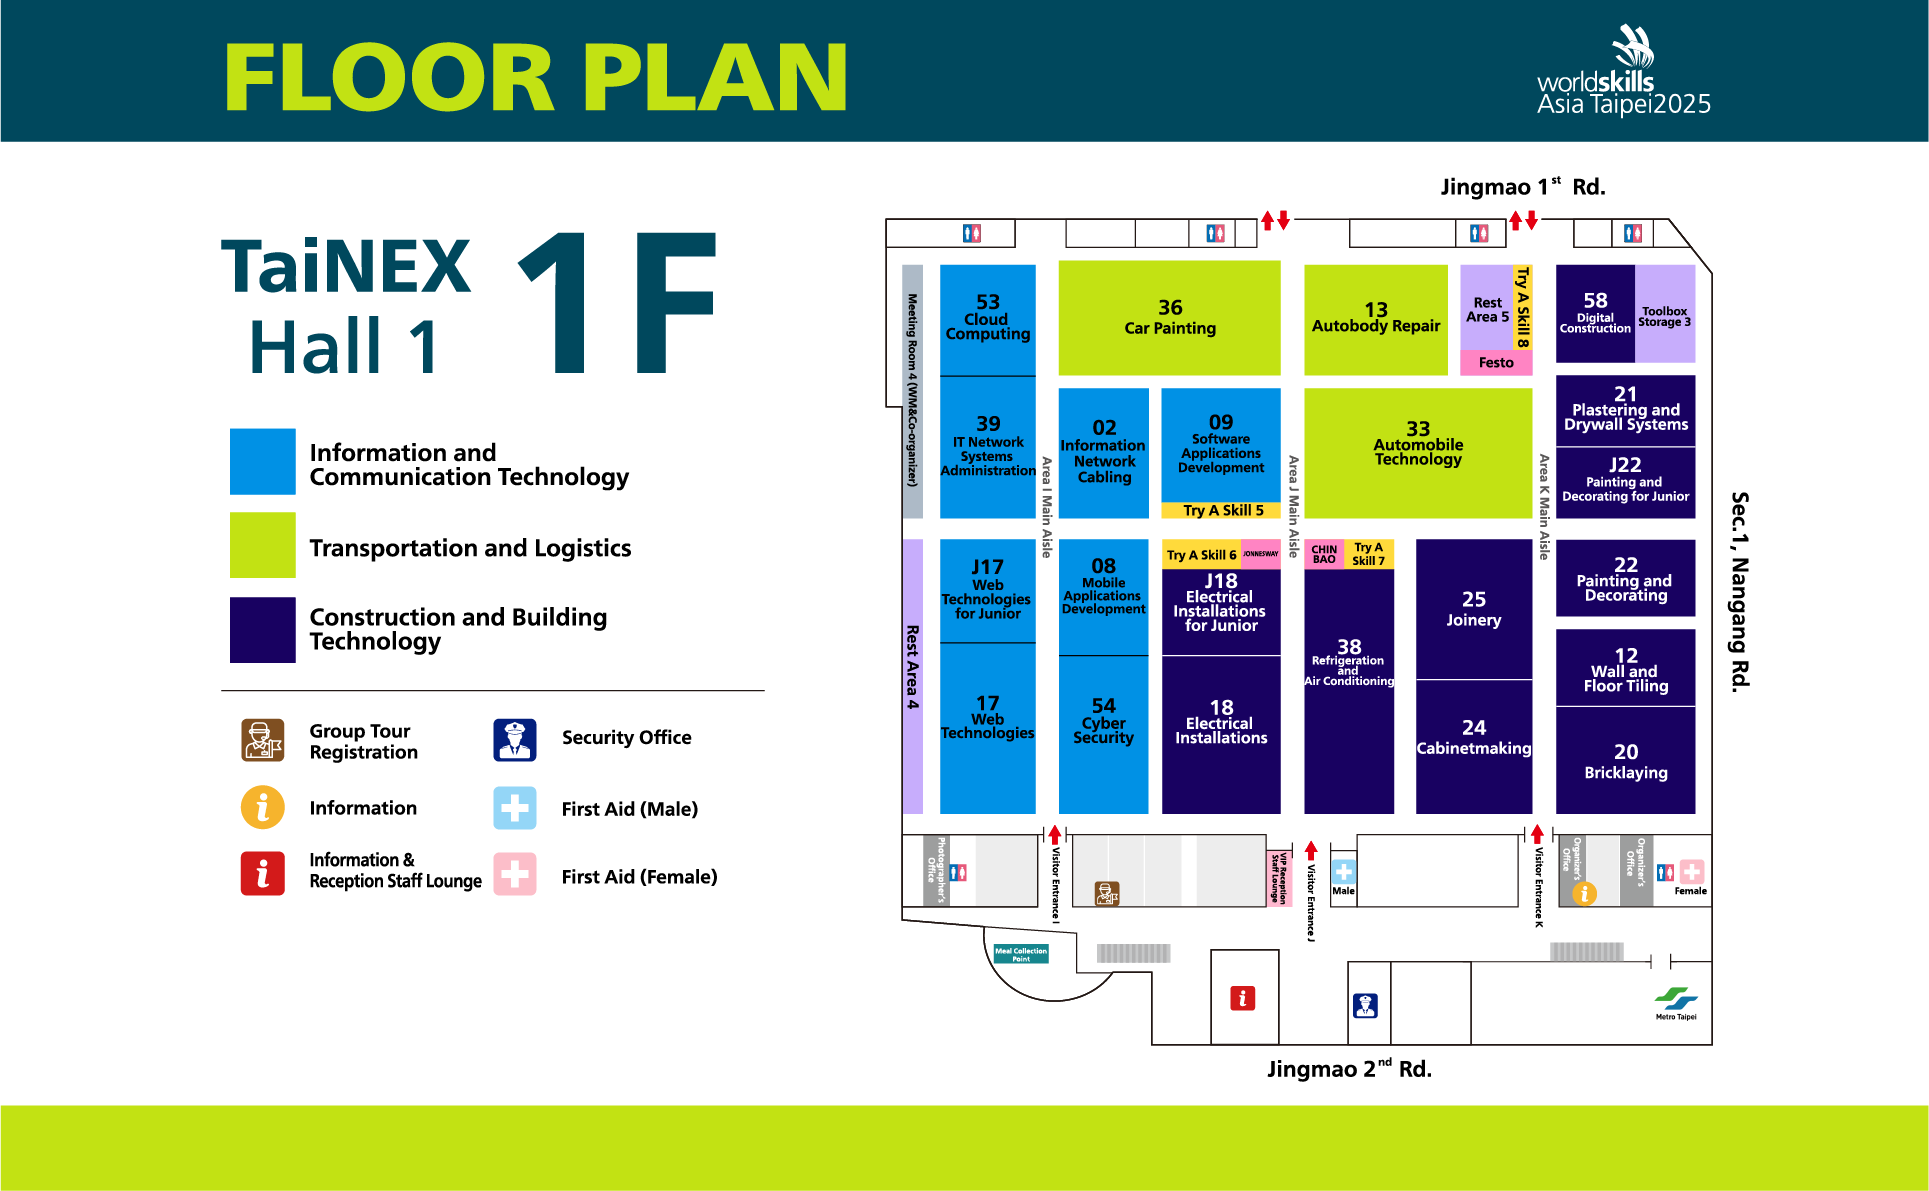
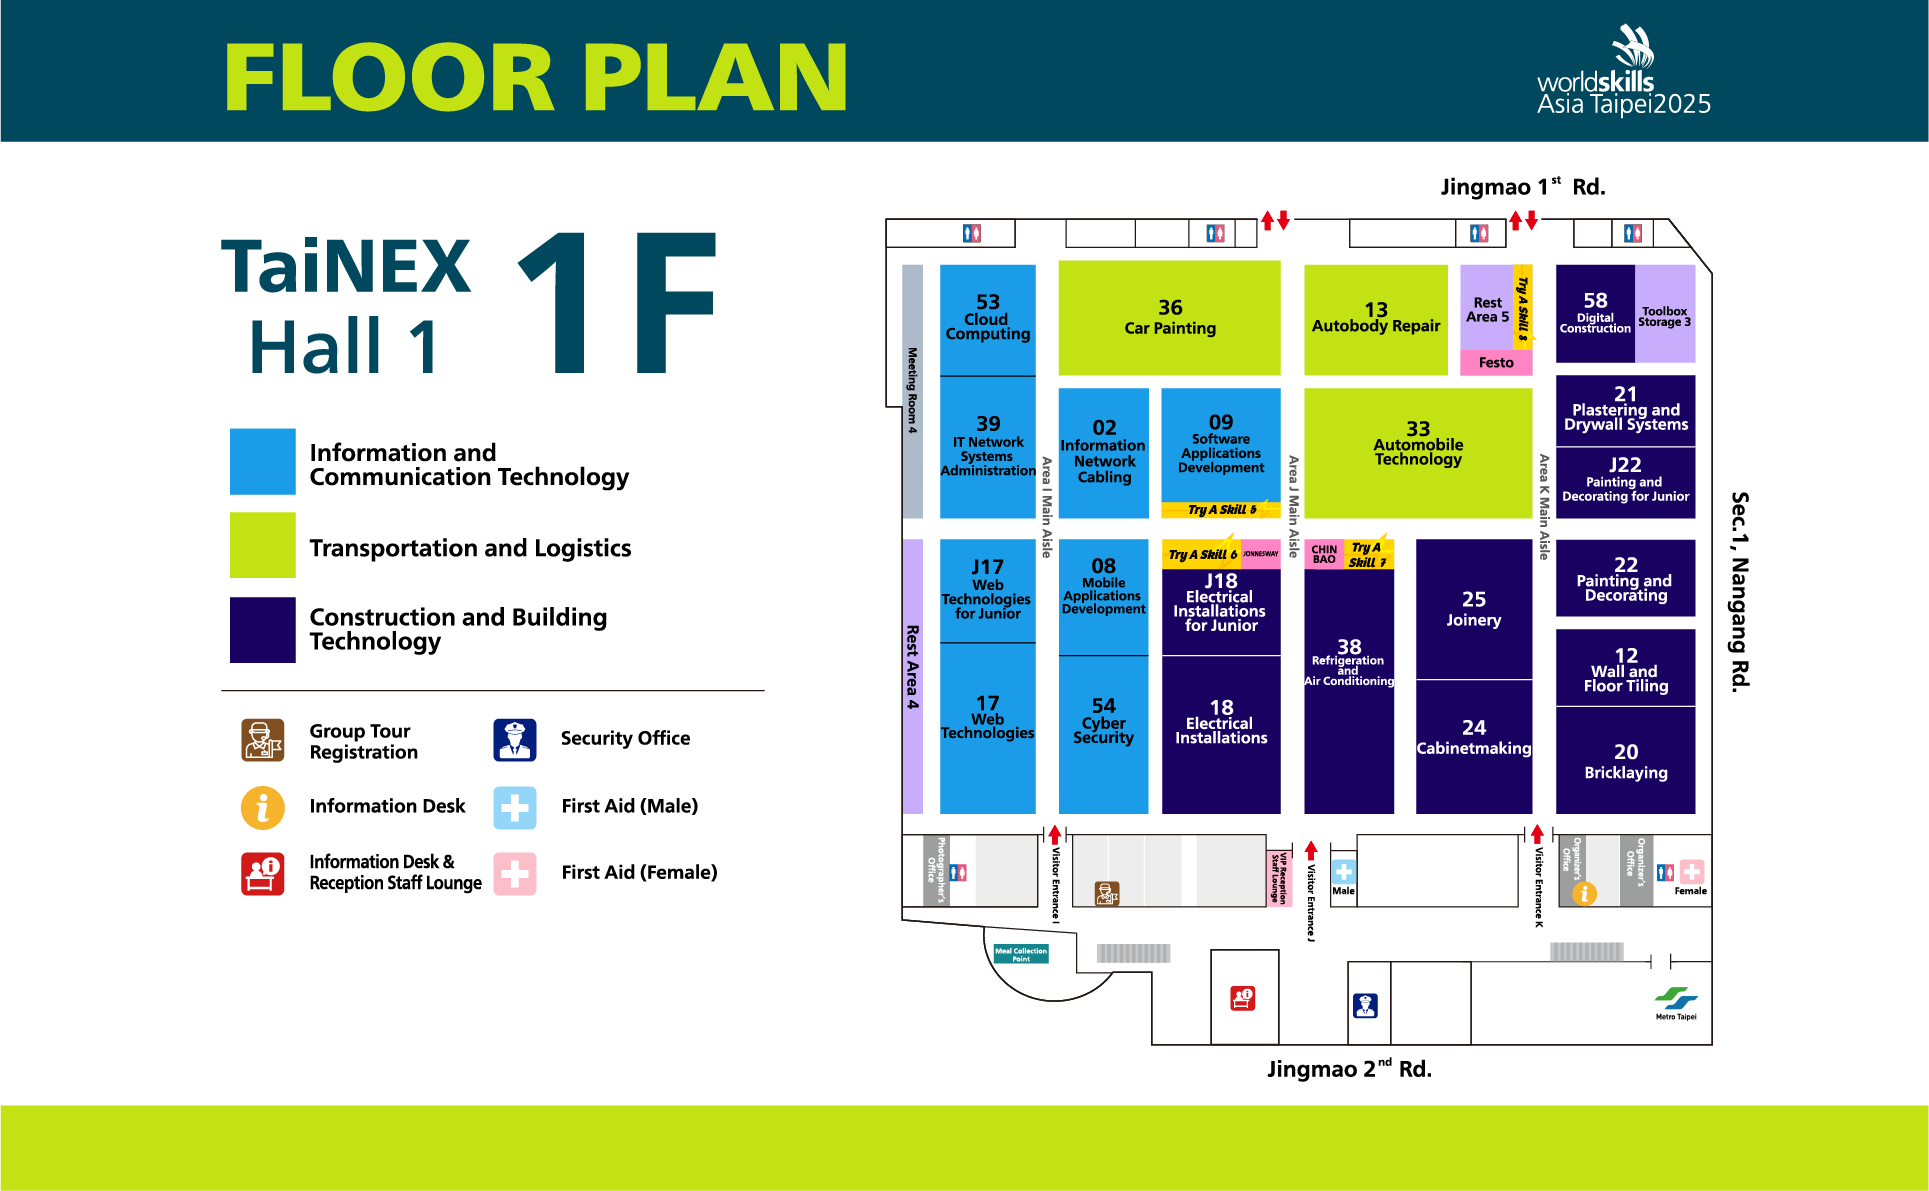
upd: update hall images and show in competition

diff --git a/src/components/CompetitionBanner.vue b/src/components/CompetitionBanner.vue
@@ -24,7 +24,7 @@
     </div>
 
     <!-- Venue Map Swiper -->
-    <!-- <div class="venue-swiper-container" data-aos="fade-up">
+    <div class="venue-swiper-container" data-aos="fade-up">
       <Swiper class="venue-swiper" v-bind="swiperConfig">
         <SwiperSlide v-for="(image, index) in venueImages" :key="index" class="venue-slide">
           <img
@@ -46,22 +46,22 @@
       :max-zoom="1.2"
       :min-zoom="1"
       teleport="body"
-    /> -->
+    />
   </div>
 </template>
 
 <script lang="ts" setup>
-// import { computed, watch } from 'vue'
-// import { useI18n } from 'vue-i18n'
-// import { useEasyLightbox } from 'vue-easy-lightbox'
-// import 'swiper/css'
-// import 'swiper/css/autoplay'
-// import 'swiper/css/navigation'
-// import { A11y, Autoplay, Navigation } from 'swiper/modules'
-// import { Swiper, SwiperSlide } from 'swiper/vue'
+import { computed, watch } from 'vue'
+import { useI18n } from 'vue-i18n'
+import { useEasyLightbox } from 'vue-easy-lightbox'
+import 'swiper/css'
+import 'swiper/css/autoplay'
+import 'swiper/css/navigation'
+import { A11y, Autoplay, Navigation } from 'swiper/modules'
+import { Swiper, SwiperSlide } from 'swiper/vue'
 import { SECTION_ID } from '@/types/page_section'
 
-// const { locale } = useI18n({ useScope: 'global' })
+const { locale } = useI18n({ useScope: 'global' })
 
 const competitionImages = Array.from(
   { length: 6 },
@@ -70,50 +70,50 @@ const competitionImages = Array.from(
 )
 
 // Venue images based on language
-// const venueImages = computed(() => {
-//   const lang = locale.value === 'tw' ? 'zh' : 'en'
-//   return [
-//     `${import.meta.env.BASE_URL}images/competition/hall1_1f_${lang}.png`,
-//     `${import.meta.env.BASE_URL}images/competition/hall2_1f_${lang}.png`,
-//     `${import.meta.env.BASE_URL}images/competition/hall2_4f_${lang}.png`,
-//   ]
-// })
+const venueImages = computed(() => {
+  const lang = locale.value === 'tw' ? 'zh' : 'en'
+  return [
+    `${import.meta.env.BASE_URL}images/competition/hall1_1f_${lang}.png`,
+    `${import.meta.env.BASE_URL}images/competition/hall2_1f_${lang}.png`,
+    `${import.meta.env.BASE_URL}images/competition/hall2_4f_${lang}.png`,
+  ]
+})
 
-// const swiperConfig = {
-//   loop: true,
-//   autoplay: {
-//     delay: 3000,
-//     disableOnInteraction: true,
-//   },
-//   navigation: {
-//     prevEl: '.swiper-button-prev',
-//     nextEl: '.swiper-button-next',
-//   },
-//   modules: [Autoplay, Navigation, A11y],
-// }
+const swiperConfig = {
+  loop: true,
+  autoplay: {
+    delay: 3000,
+    disableOnInteraction: true,
+  },
+  navigation: {
+    prevEl: '.swiper-button-prev',
+    nextEl: '.swiper-button-next',
+  },
+  modules: [Autoplay, Navigation, A11y],
+}
 
 // Lightbox setup
-// const {
-//   show,
-//   onHide,
-//   visibleRef,
-//   indexRef,
-//   imgsRef
-// } = useEasyLightbox({
-//   imgs: venueImages.value,
-//   initIndex: 0
-// })
+const {
+  show,
+  onHide,
+  visibleRef,
+  indexRef,
+  imgsRef
+} = useEasyLightbox({
+  imgs: venueImages.value,
+  initIndex: 0
+})
 
-// // Update lightbox images when language changes
-// watch(venueImages, (newImages) => {
-//   imgsRef.value = newImages
-// })
+// Update lightbox images when language changes
+watch(venueImages, (newImages) => {
+  imgsRef.value = newImages
+})
 
-// // Show lightbox at specific index
-// const showLightbox = (index: number) => {
-//   indexRef.value = index
-//   show()
-// }
+// Show lightbox at specific index
+const showLightbox = (index: number) => {
+  indexRef.value = index
+  show()
+}
 </script>
 <style lang="scss" scoped>
 .host-copy {
